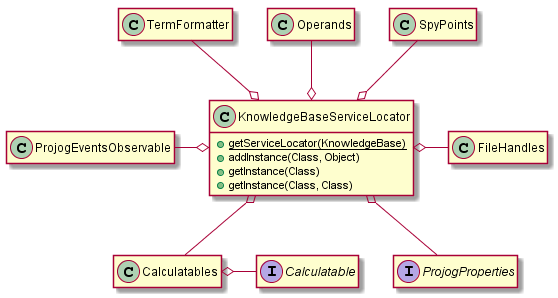
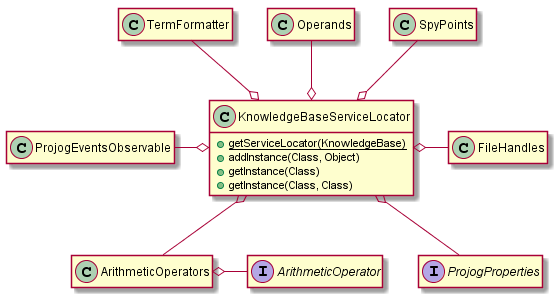
updated plantuml diagrams #106

Changed region(s): [[0.1219, 0.6644, 1.0, 0.9966], [0.3047, 0.6644, 0.457, 0.8456]]

diff --git a/src/main/java/org/projog/core/ArithmeticOperators.java b/src/main/java/org/projog/core/ArithmeticOperators.java
@@ -30,8 +30,11 @@ import org.projog.core.term.TermUtils;
  * <p>
  * This class provides a mechanism for "plugging in" or "injecting" implementations of {@link ArithmeticOperator} at
  * runtime. This mechanism provides an easy way to configure and extend the arithmetic operations supported by Projog.
+ * </p>
  * <p>
  * Each {@link org.projog.core.KnowledgeBase} has a single unique {@code ArithmeticOperators} instance.
+ * </p>
+ * <img src="doc-files/ArithmeticOperators.png">
  */
 public final class ArithmeticOperators {
    private final KnowledgeBase kb;
